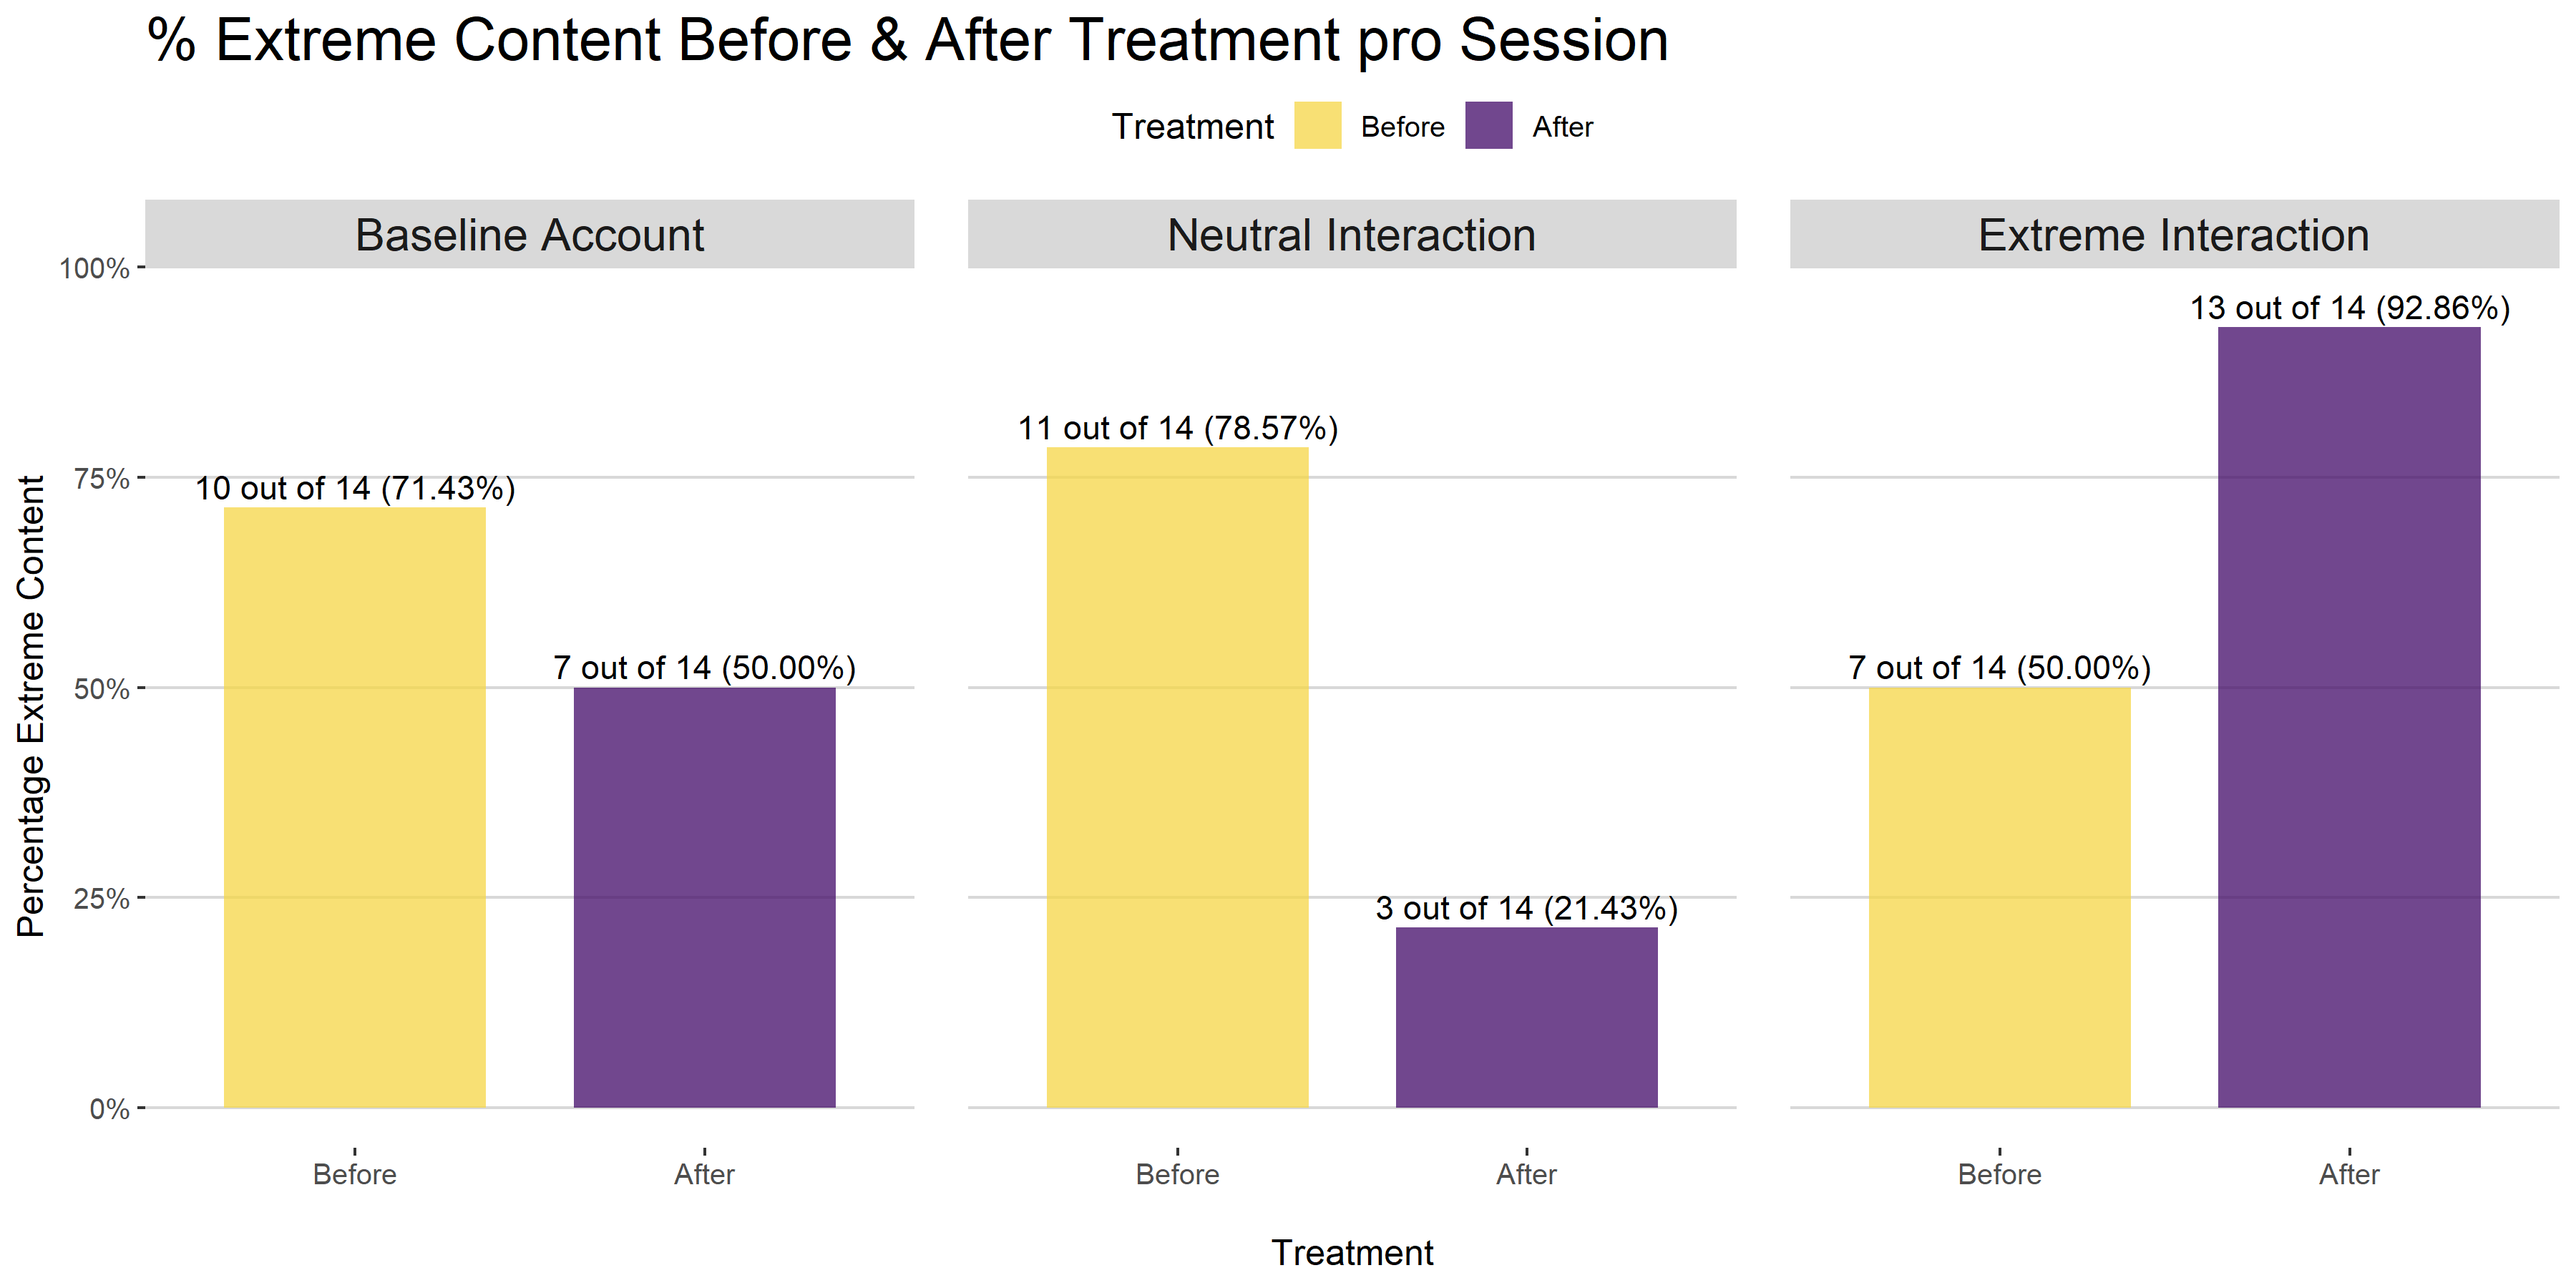
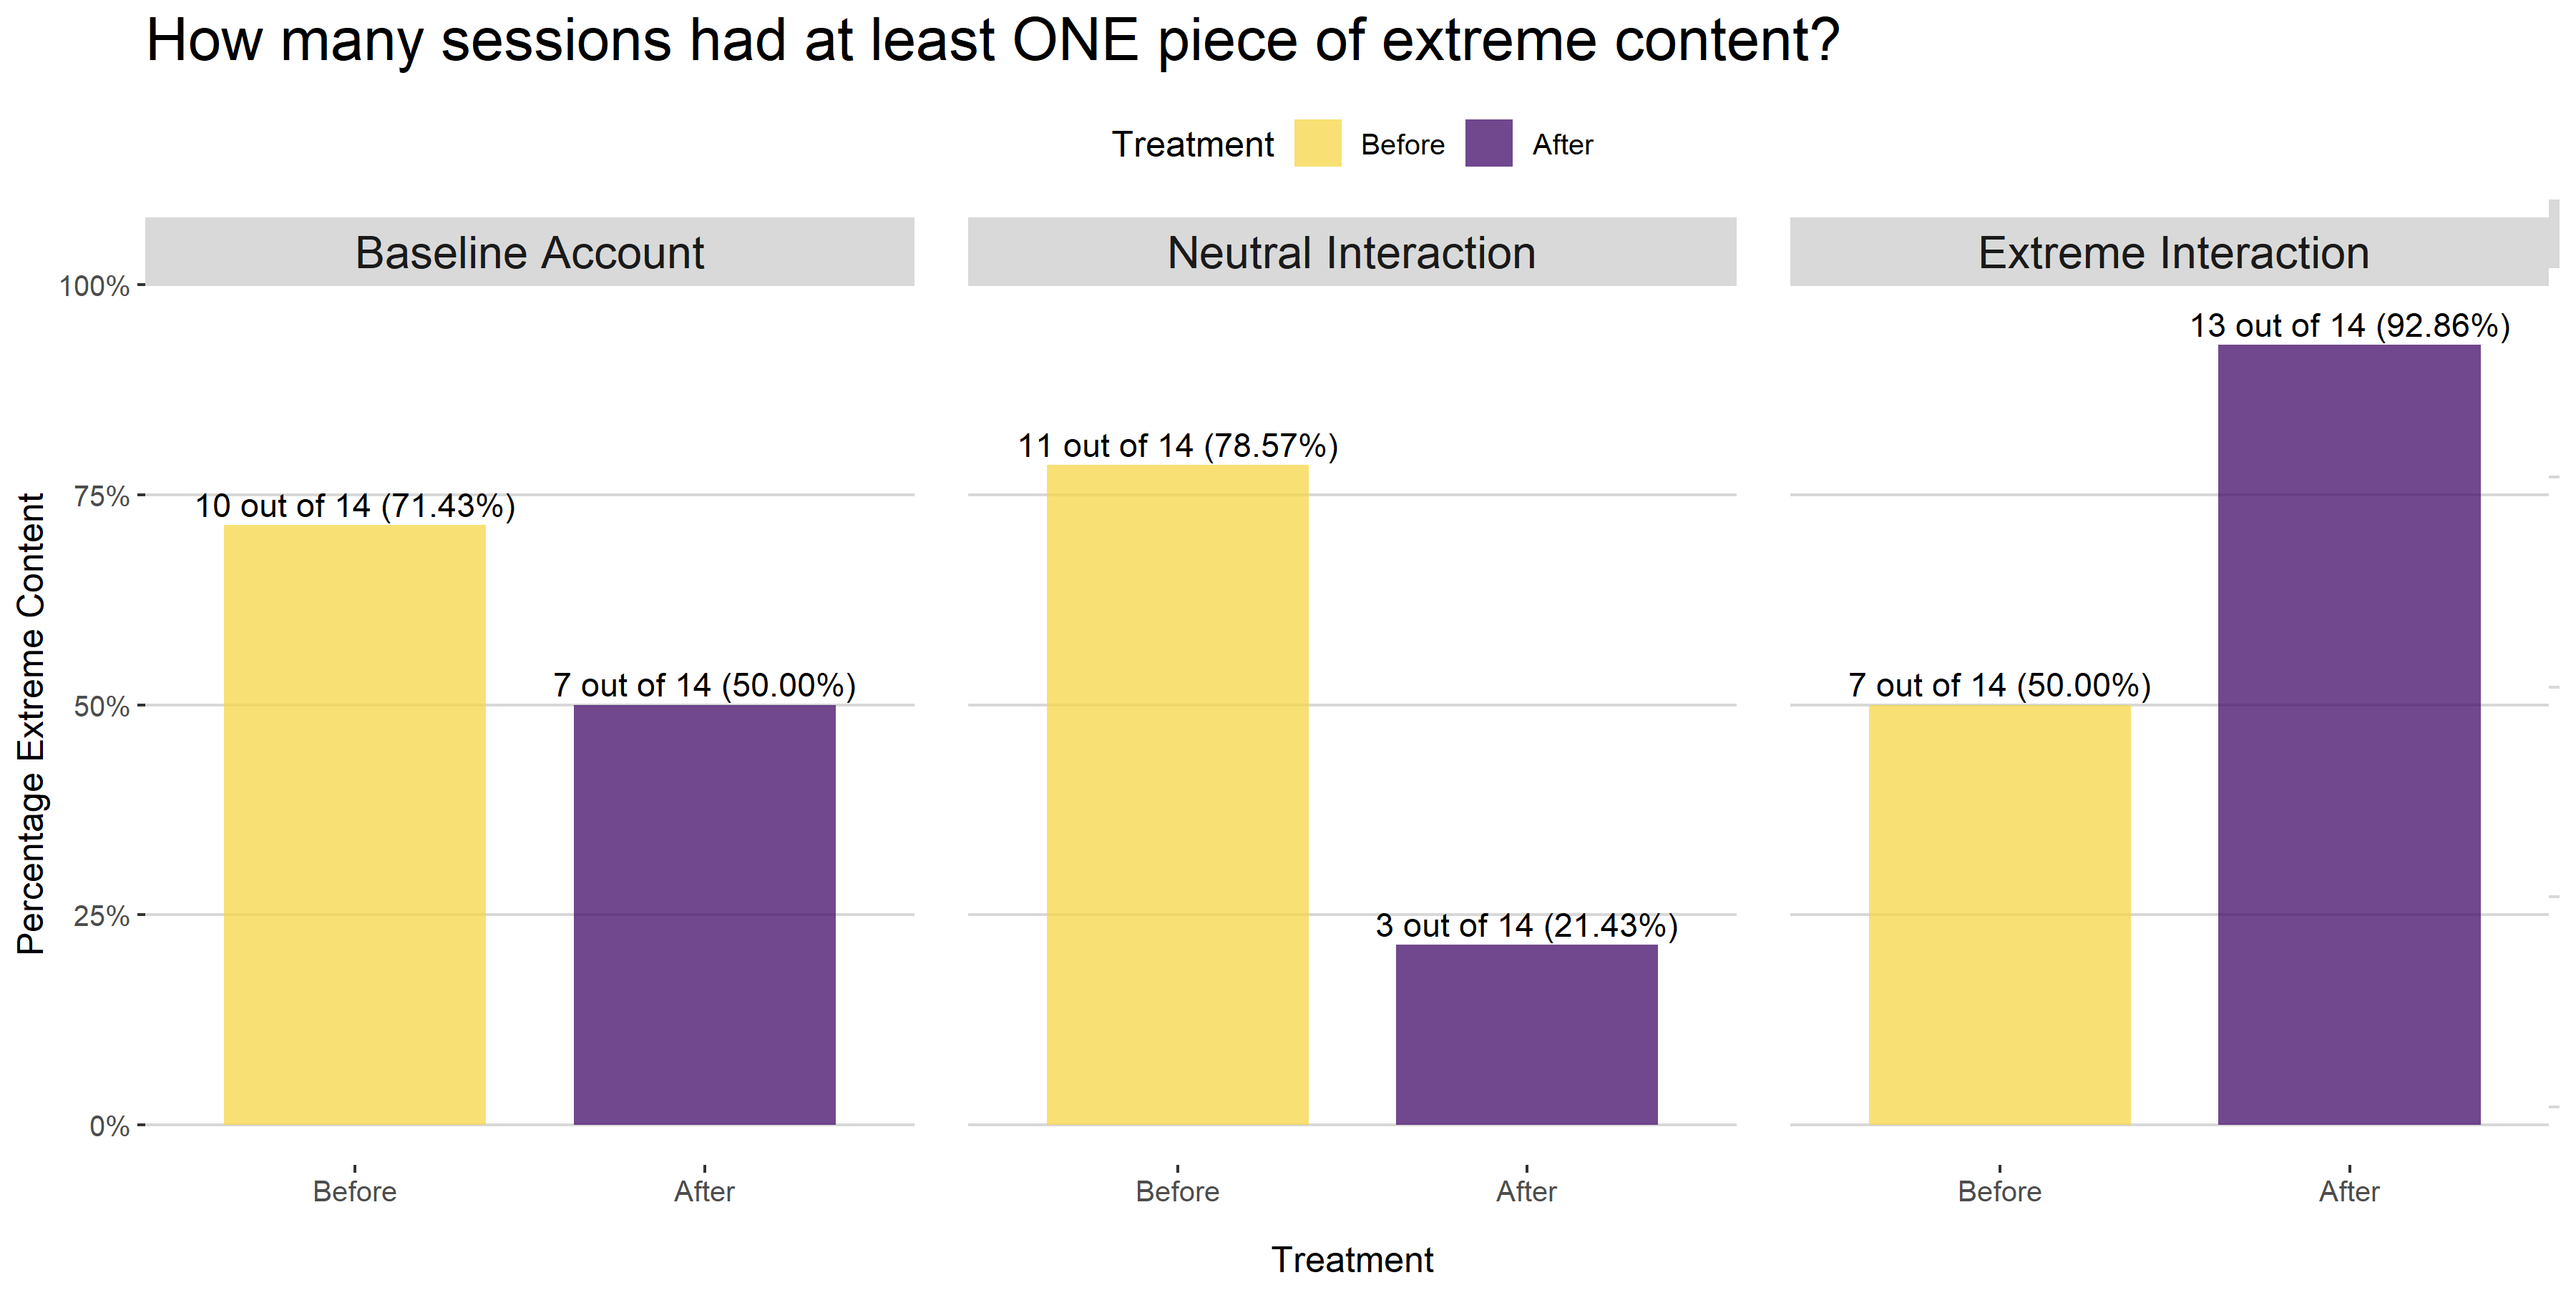
add more slides

diff --git a/index.html b/index.html
@@ -205,16 +205,13 @@ class: center, middle, inverse
 
 Of the 1443 videos coded on YouTube
 
-+ 949 (65.77%) are rated as moderate
-+ 409 (28.34%) were judged to be fringe 
-+ 85 (5.89%) were deemed to be extremist 
++ 949 (65.77%) moderate
++ 409 (28.34%) fringe 
++ 85 (5.89%) extremist 
 
 Extreme content 2.47 (p &lt; 0.01) times more likely than moderate
 
 After treatment, extreme content ranked sig. higher (p &lt; 0.028) than moderate
-     + Median Rank of Extreme content: 
-         + Before Treatment: 10 
-         + After Treatment: 5
 
 ]
 
@@ -226,16 +223,14 @@ Figure on the left shows the EMI scores for each session with a rank from one to
 
 
 
-
 ---
 
 &lt;img src="images/youtube.png" width="150" /&gt;
 
-&lt;img src="images/yt_firstrank_extreme.png" width="4000" /&gt;
+&lt;img src="images/pct_extreme.png" width="4800" /&gt;
+
 
 .seventyfive[
-
-Figure shows the first appearance of an **extreme** content piece for each session.
 
 + In the *neutral interaction account*
     + **only three sessions** had an extreme content piece **after interaction** 
@@ -247,34 +242,25 @@ Figure shows the first appearance of an **extreme** content piece for each sessi
 
 ---
 
-&lt;img src="images/youtube.png" width="150" /&gt;
-
-&lt;img src="images/pct_extreme.png" width="4800" /&gt;
-
-Figure shows how many sessions had at least **ONE** piece of extreme content.
-
-
----
-
 &lt;img src="images/reddit-logo.jpg" width="150" /&gt;
 
 &lt;br&gt;
 
-+ Created 3 identical accounts
++ Experimental design 
+    + Created **THREE** identical accounts
+    + All follow same 10 XRW subreddits; 10 Neutral
+    + Each account interacts with different kinds of content
 
-+ Followed 10 XRW subreddits; 10 Neutral
 
 + Visited the site twice per day for 2 weeks and collected data for the 25 “Popular” threads on the home page
 
-+ Neutral Interaction Account interacted predominantly with *neutral content* after the first week
-
-+ Extreme Interaction Account interacted predominately with *extreme content* after the first week.
-
-+ Baseline Account continued to *not interact*.
+1. *Neutral Interaction Accounts* interact with neutral content 
+2. *Extreme Interaction Accounts* interact with extreme content 
+3. *Baseline Accounts* do nothing to establish a baseline
 
 + Every piece of content gets a unique rank per session and an Extremist Media Index (EMI) Score (Holbrook, 2015)
 
-+ Two individuals rated the content with a Krippendorff's alpha of 0.77
++ Satisfactory interrater reliability between two individuals  (Krippendorff's alpha: 0.77)
 
 ---
 
@@ -343,7 +329,7 @@ No statistically sig. difference between extreme content in any of the timelines
 
 class: center, middle, inverse
 
-## Conclusions &amp; Future Research
+## Discussion
 
 ---
 
@@ -363,29 +349,104 @@ class: center, middle, inverse
 
 .pull-right[
 
-![](https://oilab.eu/wp-content/uploads/2019/06/nsg_05-06-2019-gif-1024x578.gif)
+![](images/yt_screen.png)
+ 
+&lt;a href="https://oilab.eu/4chans-youtube-a-fringe-perspective-on-youtubes-great-purge-of-2019/"&gt;
+  &lt;img src="https://oilab.eu/wp-content/uploads/2019/06/nsg_05-06-2019-gif.gif"&gt;
+&lt;/a&gt;
+.seventyfive[
+[OILAB](https://oilab.eu/4chans-youtube-a-fringe-perspective-on-youtubes-great-purge-of-2019/): Availability of YouTube videos posted in Nazi threads on 4chan/pol/ on 5 and 6 June 2019.
+]
 
 ]
 
 ---
 
-### Conclusions &amp; Recommendations
+### Discussion
 
 
-**Linking research to real-life implications:**
+.pull-left[
++ Safe haven for right wing extremists and home to terrorists such as Pittsburgh Synagogue Shooter
 
-+ The psychological aspects of how long it takes people to be influenced by content, or what type of content is the most influential would be a opportunity to supplement the research in a case study
++ Anecdotally, by far the most extreme of the platforms.
+
++ Lack of evidence of Gab’s algorithm suggests that it is the user’s choices which are responsible for this environment.
+
+]
 
 
-**Recommendations**
+.pull-right[
 
-+ Limited features/demonetise
+![](images/gab.png)
+ 
 
-+ Transparency – “Why have I been recommended this?”
+![](images/robert_bowers.png)
 
-+ More research – especially on closed platforms
+]
 
-+ CVE approaches – Redirection
+
+
+---
+
+class: center, middle, inverse
+
+## Recommendations
+
+---
+
+### Recommendations
+
+**Removing Problematic Content from Recommendations**
+
++ Content which does not clearly violate site rules or policies
++ Google’s “limited features” policy
++ Reddit’s “Quarantine” System
++ Opt in content
++ No monetisation or recommendation
++ Constructive balance between freedom of speech and harmful content.
++ Need for Clarity and Consistency 
+
+---
+
+### Recommendations
+
+**Ensuring Video Recommendations are from Quality Sources**
+
++ Provide users with more context and alternative perspectives
++ Google introduced changes to make quality count and give more context to searches.
++ Provide high quality sources on the same topic
++ Jigsaw’s redirect method as a model.
+
+
+---
+
+### Recommendations
+
+**Greater Transparency**
+
++ Users should have a clear option to request why content has been recommended to them.
++ Opportunity for Explainable AI
++ Facebook’s “Why am I seeing this ad”
+
+
+---
+
+### Recommendations
+
+**Greater Transparency**
+
+![](images/why.png)
+
+[Source: Facebook Newsroom, 31st March 2019](https://newsroom.fb.com/news/2019/03/why-am-i-seeing-this/)
+
+---
+
+### Future Research
+
++ Research Project constrained by the number and type of social media platforms that we could research.
++ Closed nature of the platform (Facebook)
++ Terms of Service Restrictions (Twitter)
++ Increasing knowledge gap which can only be answered through close collaboration with social media companies.
 
 
 ---
@@ -520,6 +581,25 @@ Multiple pathways:
 .seventyfive[
 
 Figure shows the first appearance of a piece of content (Moderate, Fringe or Extreme) for each session.
+
+]
+
+
+---
+
+&lt;img src="images/youtube.png" width="150" /&gt;
+
+&lt;img src="images/yt_firstrank_extreme.png" width="4000" /&gt;
+
+.seventyfive[
+
+Figure shows the first appearance of an **extreme** content piece for each session.
+
++ In the *neutral interaction account*
+    + **only three sessions** had an extreme content piece **after interaction** 
++ In the *extreme interaction account* 
+    + **all but one session** had an extreme content piece **after interaction**
+    + Almost all content shows up in the upper half (&lt; 8) of the recommendation list
 
 ]
     </textarea>
